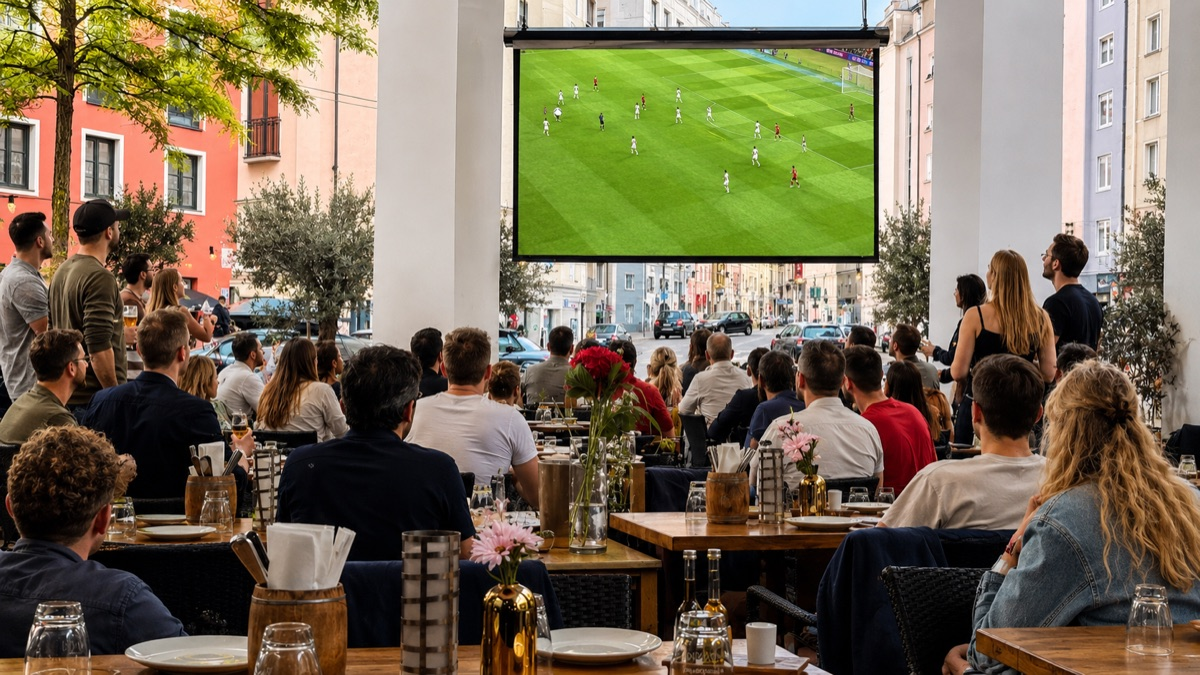
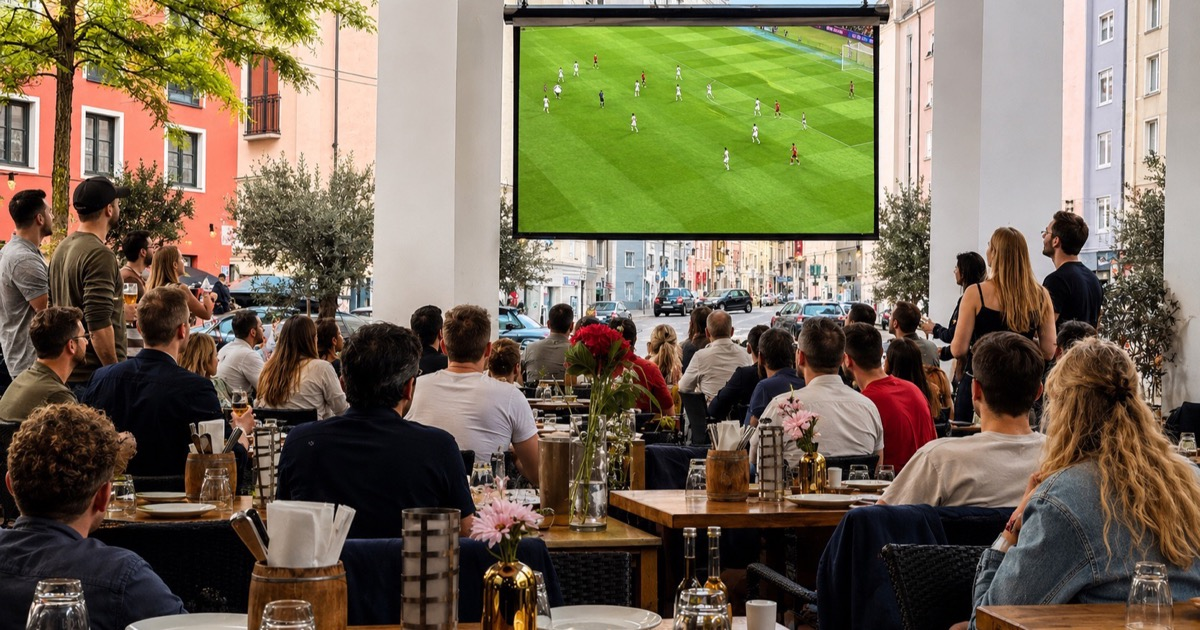
feat(wm): Homepage-Einstieg, OG 1200x630, Reservieren-Heading-Semantik
- WmBanner: serverseitig gerendert (crawlbarer interner Link), Marken-Look
  (Bordeaux/Amber, Cormorant) – Eyebrow "WM 2026" / "Alle Spiele live auf der
  Terrasse" / "Zum Spielplan →"; blendet sich nach 19.07.2026 aus
- OG-Bild exakt auf 1200x630 zugeschnitten (Leinwand mittig), JPG
- ReservationBooking: headingLevel-Prop (Default h2) -> WM nutzt h3 (nur ein h2
  pro Section); onBook-Callback -> generate_lead feuert beim OpenTable-Klick

diff --git a/src/components/WmBanner.tsx b/src/components/WmBanner.tsx
@@ -1,39 +1,46 @@
-import { useState, useEffect } from "react";
 import { ArrowRight } from "lucide-react";
 import LocalizedLink from "@/components/LocalizedLink";
 import { useLanguage } from "@/contexts/LanguageContext";
 
-// Zeitlich begrenzter Kampagnen-Banner zur Fußball-WM 2026.
-// Sichtbar bis einschließlich Finaltag (19. Juli 2026), nur auf der
-// deutschsprachigen Startseite. Danach rendert die Komponente nichts mehr.
+/**
+ * Zeitlich begrenzter Saison-Banner zur Fußball-WM 2026 (Startseite, nur DE).
+ *
+ * ▸ NACH DEM TURNIER ENTFERNEN (Finale: 19. Juli 2026):
+ *   Der Banner blendet sich ab dem 20.07.2026 automatisch aus (WM_END).
+ *   Zum vollständigen Aufräumen: <WmBanner /> aus src/pages/Index.tsx
+ *   entfernen und diese Datei löschen.
+ *
+ * Wird serverseitig gerendert (kein useEffect-Gate), damit der interne Link
+ * bereits im prerenderten HTML steht und crawlbar ist.
+ */
 const WM_END = new Date("2026-07-20T00:00:00+02:00").getTime();
 
 const WmBanner = () => {
   const { language } = useLanguage();
-  const [visible, setVisible] = useState(false);
 
-  useEffect(() => {
-    setVisible(Date.now() < WM_END);
-  }, []);
-
-  if (!visible || language !== "de") return null;
+  if (language !== "de" || Date.now() >= WM_END) return null;
 
   return (
-    <div className="bg-primary/5 border border-primary/20 rounded-2xl px-6 py-5 flex flex-col sm:flex-row items-start sm:items-center gap-4 my-6 mx-4 md:mx-0">
-      <span className="text-2xl shrink-0" aria-hidden="true">{"⚽"}</span>
+    <aside className="my-6 mx-4 md:mx-0 rounded-2xl border border-primary/20 bg-primary/5 px-6 py-6 flex flex-col sm:flex-row sm:items-center gap-4">
       <div className="flex-1 min-w-0">
-        <p className="font-semibold text-sm">WM 2026 – alle Spiele live auf der überdachten Terrasse</p>
-      </div>
-      <div className="flex flex-wrap gap-2 shrink-0">
-        <LocalizedLink
-          to="wm-2026-public-viewing-muenchen"
-          className="inline-flex items-center gap-1 text-sm text-primary hover:underline font-medium"
+        <span
+          className="block text-xs font-semibold uppercase tracking-[0.22em] mb-2"
+          style={{ color: "#b07d29" }}
         >
-          Public Viewing im STORIA
-          <ArrowRight className="w-3.5 h-3.5" />
-        </LocalizedLink>
+          WM 2026
+        </span>
+        <p className="font-serif text-2xl md:text-3xl leading-tight text-primary">
+          Alle Spiele live auf der Terrasse
+        </p>
       </div>
-    </div>
+      <LocalizedLink
+        to="wm-2026-public-viewing-muenchen"
+        className="inline-flex items-center gap-1.5 shrink-0 text-base font-medium text-primary hover:underline underline-offset-4"
+      >
+        Zum Spielplan
+        <ArrowRight className="w-4 h-4" />
+      </LocalizedLink>
+    </aside>
   );
 };
 

diff --git a/src/components/ReservationBooking.tsx b/src/components/ReservationBooking.tsx
@@ -48,13 +48,22 @@ const isClosedDay = (date: Date): boolean => {
   return closedDays.some(closedDay => isSameDay(date, closedDay));
 };
 
-const ReservationBooking = () => {
+interface ReservationBookingProps {
+  /** Überschrift-Ebene des Widgets. Default h2; auf Seiten mit eigenem
+   *  Section-h2 (z. B. WM-Landingpage) auf h3 setzen, um doppelte h2 zu vermeiden. */
+  headingLevel?: "h2" | "h3";
+  /** Wird beim Klick auf „Jetzt buchen" (OpenTable) aufgerufen — z. B. für generate_lead. */
+  onBook?: () => void;
+}
+
+const ReservationBooking = ({ headingLevel = "h2", onBook }: ReservationBookingProps = {}) => {
   const { t, language } = useLanguage();
   const isMobile = useIsMobile();
   const [date, setDate] = useState<Date | undefined>(new Date()); // Default to today
   const [time, setTime] = useState("19:00");
   const [guests, setGuests] = useState("2");
   const [isDatePickerOpen, setIsDatePickerOpen] = useState(false);
+  const HeadingTag = headingLevel;
 
   const getLocale = () => {
     switch (language) {
@@ -135,6 +144,7 @@ const ReservationBooking = () => {
   };
 
   const handleBookClick = () => {
+    onBook?.();
     window.open(buildOpenTableUrl(), "_blank", "noopener,noreferrer");
   };
 
@@ -144,9 +154,9 @@ const ReservationBooking = () => {
         <div className="bg-card rounded-2xl border border-border shadow-lg overflow-hidden">
           {/* Header */}
           <div className="bg-primary/5 px-6 py-5 border-b border-border">
-            <h2 className="text-xl font-semibold text-foreground text-center">
+            <HeadingTag className="text-xl font-semibold text-foreground text-center">
               {t.reservationBooking.title}
-            </h2>
+            </HeadingTag>
             <p className="text-sm text-muted-foreground text-center mt-1">
               {t.reservationBooking.subtitle}
             </p>

diff --git a/src/pages/seo/WmPublicViewingMuenchen.tsx b/src/pages/seo/WmPublicViewingMuenchen.tsx
@@ -352,7 +352,7 @@ const WmPublicViewingMuenchen = () => {
               </p>
             </Reveal>
             <Reveal delay={0.1} className="wm-booking">
-              <ReservationBooking />
+              <ReservationBooking headingLevel="h3" onBook={() => fireLead("wm_reservierung")} />
             </Reveal>
             <Reveal delay={0.16} className="wm-hero-actions wm-actions-center">
               <LocalizedLink
